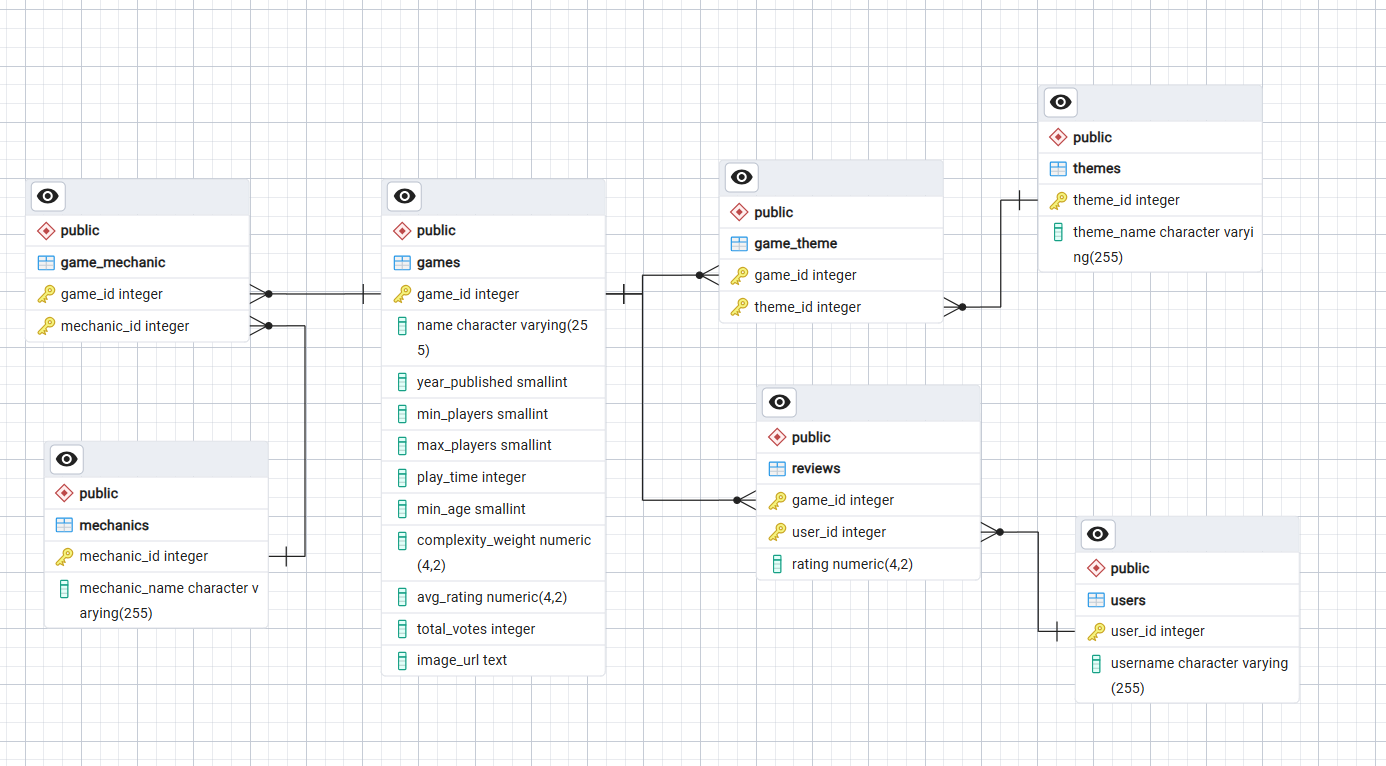
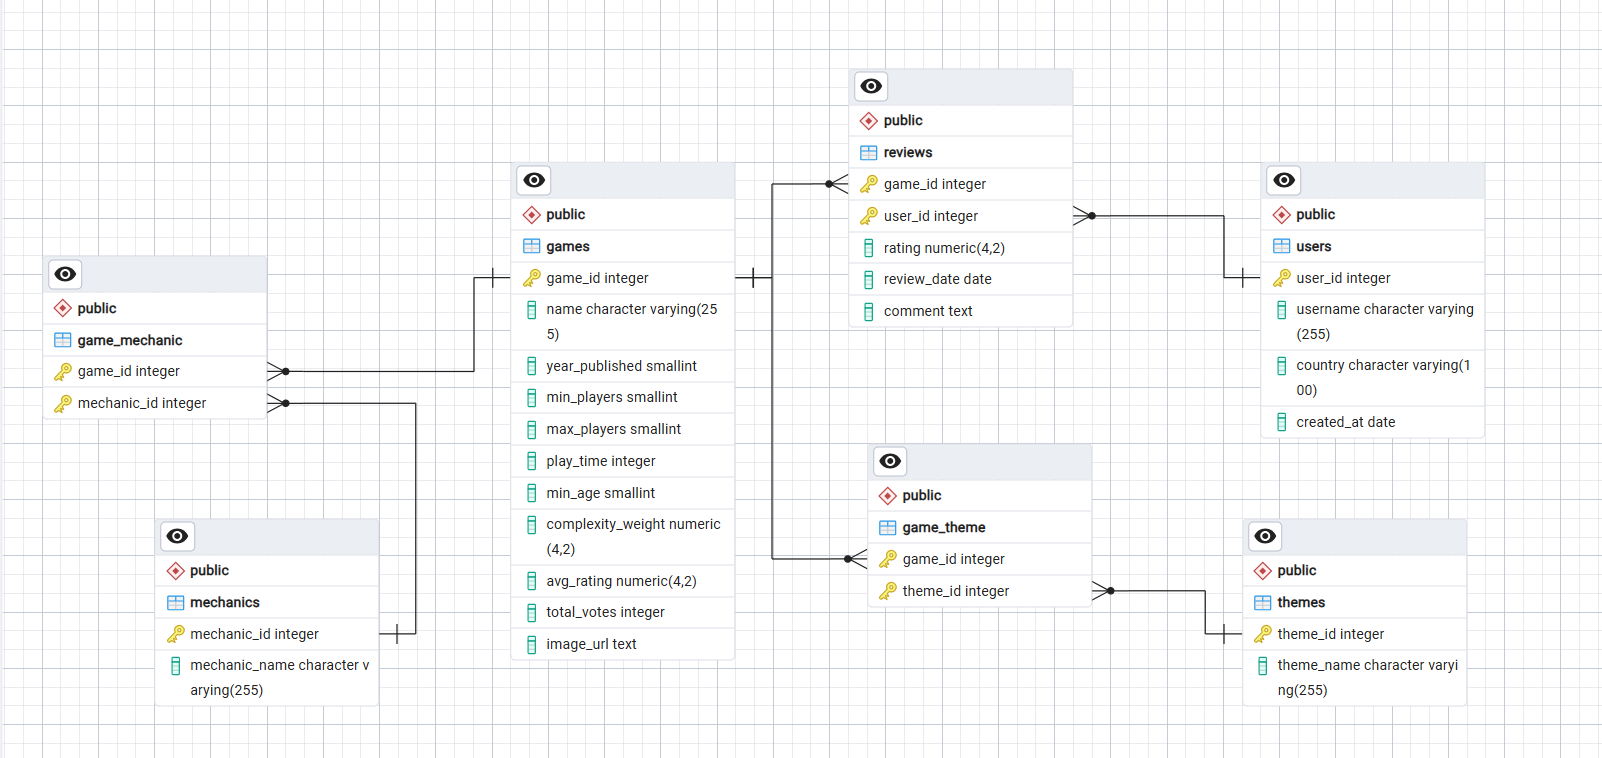
Update data, fix ETL logic, build app

diff --git a/app.py b/app.py
@@ -1,0 +1,205 @@
+import streamlit as st
+import psycopg2
+import pandas as pd
+
+# Default Streamlit page configuration (Single Page Mode)
+st.set_page_config(page_title="Board Game Dashboard", layout="wide")
+
+# Database connection function with caching
+@st.cache_resource
+def init_connection():
+    return psycopg2.connect(
+        host="localhost",
+        database="boardgamedb",
+        user="postgres",
+        password="YOUR_PASSWORD", # <-- ENTER YOUR PGADMIN PASSWORD HERE
+        port="5432"
+    )
+
+conn = init_connection()
+
+# Function to execute SQL and return a Pandas DataFrame
+def run_query(query, params=None):
+    with conn.cursor() as cur:
+        cur.execute(query, params)
+        if cur.description:
+            columns = [desc[0] for desc in cur.description]
+            data = cur.fetchall()
+            return pd.DataFrame(data, columns=columns)
+        else:
+            conn.commit()
+            return pd.DataFrame()
+
+# Helper function to display DataFrame with index starting from 1
+def display_df(df):
+    if not df.empty:
+        df.index = range(1, len(df) + 1)
+        st.dataframe(df, width="stretch") # Using "stretch" to fix the InvalidWidthError
+    else:
+        st.info("No data found.")
+
+# PART 1: OVERVIEW & DEEP ANALYTICS
+st.title("Board game analytics dashboard")
+st.markdown("---")
+st.header("1. Market overview & Analytics")
+
+col1, col2, col3 = st.columns(3)
+
+with col1:
+    st.subheader("Top 10 newest games")
+    query_new_games = """
+        SELECT name AS "Game name", year_published AS "Year"
+        FROM games ORDER BY year_published DESC LIMIT 10;
+    """
+    display_df(run_query(query_new_games))
+
+with col2:
+    st.subheader("Top 10 best rated (>5000 votes)")
+    query_top_rated = """
+        SELECT name AS "Game name", avg_rating AS "Rating"
+        FROM games WHERE total_votes > 5000 ORDER BY avg_rating DESC LIMIT 10;
+    """
+    display_df(run_query(query_top_rated))
+
+with col3:
+    st.subheader("Top 3 games each year (From 2020)")
+    query_window = """
+        WITH RankedGames AS (
+            SELECT name, year_published, avg_rating,
+                   RANK() OVER(PARTITION BY year_published ORDER BY avg_rating DESC) as rank
+            FROM games WHERE year_published >= 2020 AND total_votes > 100
+        )
+        SELECT name AS "Game name", year_published AS "Year", rank AS "Rank" 
+        FROM RankedGames WHERE rank <= 3;
+    """
+    display_df(run_query(query_window))
+
+# PART 2: ADVANCED MULTI-FACTOR FILTER
+st.markdown("---")
+st.header("2. Advanced game filter")
+
+# Fetch Mechanics and Themes for the multiselect dropdowns
+mechs_df = run_query("SELECT mechanic_name FROM mechanics ORDER BY mechanic_name;")
+themes_df = run_query("SELECT theme_name FROM themes ORDER BY theme_name;")
+mech_list = mechs_df['mechanic_name'].tolist() if not mechs_df.empty else []
+theme_list = themes_df['theme_name'].tolist() if not themes_df.empty else []
+
+with st.form("filter_form"):
+    f_col1, f_col2, f_col3 = st.columns(3)
+    with f_col1:
+        year_range = st.slider("Year published:", 1980, 2024, (2010, 2024))
+        min_rating = st.slider("Min avg rating:", 1.0, 10.0, 7.0, 0.1)
+        min_age = st.slider("Max age requirement:", 3, 18, 12)
+    with f_col2:
+        complexity = st.slider("Complexity (Weight):", 1.0, 5.0, (1.0, 5.0), 0.1)
+        min_votes = st.number_input("Min total votes:", min_value=0, value=500, step=100)
+        play_time = st.slider("Max play time (mins):", 10, 300, 120, 10)
+    with f_col3:
+        selected_mechs = st.multiselect("Require mechanics:", mech_list)
+        selected_themes = st.multiselect("Require themes:", theme_list)
+        
+    submitted = st.form_submit_button("Apply filters")
+
+if submitted:
+    base_query = """
+        SELECT g.name AS "Game name", g.year_published AS "Year", 
+               g.min_age AS "Age+", g.play_time AS "Time(m)",
+               g.complexity_weight AS "Complexity", g.avg_rating AS "Rating", g.total_votes AS "Votes"
+        FROM games g
+        WHERE g.year_published >= %s AND g.year_published <= %s
+          AND g.avg_rating >= %s
+          AND g.total_votes >= %s
+          AND g.complexity_weight >= %s AND g.complexity_weight <= %s
+          AND (g.min_age <= %s OR g.min_age IS NULL)
+          AND (g.play_time <= %s OR g.play_time IS NULL)
+    """
+    params = [year_range[0], year_range[1], min_rating, min_votes, complexity[0], complexity[1], min_age, play_time]
+
+    if selected_mechs:
+        base_query += " AND g.game_id IN (SELECT gm.game_id FROM game_mechanic gm JOIN mechanics m ON gm.mechanic_id = m.mechanic_id WHERE m.mechanic_name = ANY(%s))"
+        params.append(selected_mechs)
+    
+    if selected_themes:
+        base_query += " AND g.game_id IN (SELECT gt.game_id FROM game_theme gt JOIN themes t ON gt.theme_id = t.theme_id WHERE t.theme_name = ANY(%s))"
+        params.append(selected_themes)
+
+    base_query += " ORDER BY g.avg_rating DESC LIMIT 1000;"
+    
+    filtered_df = run_query(base_query, params)
+    st.success(f"Found {len(filtered_df)} games matching criteria.")
+    display_df(filtered_df)
+
+# PART 3: INTERACTIVE ENCYCLOPEDIA (Drill-down)
+st.markdown("---")
+st.header("3. Search encyclopedia (Game & User details)")
+st.info("Copy a game name or Username from the tables above and paste below to view full details and cross-references.")
+
+s_col1, s_col2 = st.columns(2)
+
+# ----- GAME DETAILS SECTION -----
+with s_col1:
+    search_game = st.text_input("Search game details:", placeholder="Enter game name...")
+    if search_game:
+        query_game = "SELECT * FROM games WHERE name ILIKE %s ORDER BY total_votes DESC LIMIT 1;"
+        game_info = run_query(query_game, (f"%{search_game}%",))
+        
+        if not game_info.empty:
+            game = game_info.iloc[0]
+            st.subheader(f"{game['name']}")
+
+            if pd.notna(game.get('image_url')):
+                try:
+                    st.image(game['image_url'], width=350)
+                except:
+                    pass
+            st.markdown("---")
+            
+            # Show Metrics
+            m1, m2, m3 = st.columns(3)
+            m1.metric("Rating", f"{game['avg_rating']}/10")
+            m2.metric("Complexity", f"{game['complexity_weight']}/5")
+            m3.metric("Published", int(game['year_published']) if pd.notna(game['year_published']) else "N/A")
+            
+            # Show User Reviews for this Game
+            st.markdown(f"**Recent User reviews for {game['name']}**")
+            query_game_reviews = """
+                SELECT u.username AS "Username", r.rating AS "Rating", r.comment AS "Comment", r.review_date AS "Date"
+                FROM reviews r
+                JOIN users u ON r.user_id = u.user_id
+                WHERE r.game_id = %s
+                ORDER BY r.review_date DESC LIMIT 20;
+            """
+            game_reviews_df = run_query(query_game_reviews, (int(game['game_id']),))
+            display_df(game_reviews_df)
+        else:
+            st.warning("Game not found.")
+
+# ----- USER DETAILS SECTION -----
+with s_col2:
+    search_user = st.text_input("Search User profile:", placeholder="Enter Username...")
+    if search_user:
+        query_user = "SELECT * FROM users WHERE username ILIKE %s LIMIT 1;"
+        user_info = run_query(query_user, (search_user,))
+        
+        if not user_info.empty:
+            user = user_info.iloc[0]
+            st.subheader(f"{user['username']}")
+            
+            # Show User Info
+            u1, u2 = st.columns(2)
+            u1.metric("Country", user['country'] if pd.notna(user['country']) else "Unknown")
+            u2.metric("Joined date", str(user['created_at']))
+            
+            # Show Game Reviews by this User
+            st.markdown(f"**Games reviewed by {user['username']}**")
+            query_user_history = """
+                SELECT g.name AS "Game name", r.rating AS "Rating", r.comment AS "Comment", r.review_date AS "Date"
+                FROM reviews r
+                JOIN games g ON r.game_id = g.game_id
+                WHERE r.user_id = %s
+                ORDER BY r.review_date DESC;
+            """
+            user_history_df = run_query(query_user_history, (int(user['user_id']),))
+            display_df(user_history_df)
+        else:
+            st.warning("User not found.")

diff --git a/preprocessing.py b/preprocessing.py
@@ -1,13 +1,22 @@
 import pandas as pd
+import numpy as np
+import os
+
+np.random.seed(42)
 
 # Define input and output directory paths
 ORIGIN_DIR = "./origin_data/"
 NEW_DIR = "./new_data/"
 
+# Automatically create the output directory if it does not exist
+if not os.path.exists(NEW_DIR):
+    os.makedirs(NEW_DIR)
+
 # 1. PROCESS GAMES TABLE
+print("Processing games table...")
 df_games = pd.read_csv(ORIGIN_DIR + "games.csv")
 
-# Select core columns and rename them
+# Select core columns and rename them to match the SQL schema
 df_games_cleaned = df_games[['BGGId', 'Name', 'YearPublished', 'MinPlayers', 'MaxPlayers', 'MfgPlaytime', 'MfgAgeRec', 'GameWeight', 'AvgRating', 'NumUserRatings', 'ImagePath']]
 df_games_cleaned = df_games_cleaned.rename(columns={
     'BGGId': 'game_id',
@@ -23,10 +32,19 @@ df_games_cleaned = df_games_cleaned.rename(columns={
     'ImagePath': 'image_url'
 })
 
+
+# Data Cleaning: Fix logical errors and handle missing values to match SQL constraints
+df_games_cleaned.loc[df_games_cleaned['min_players'] < 1, 'min_players'] = 1
+df_games_cleaned.loc[df_games_cleaned['max_players'] < df_games_cleaned['min_players'], 'max_players'] = df_games_cleaned['min_players']
+
+df_games_cleaned.loc[df_games_cleaned['play_time'] == 0, 'play_time'] = None
+df_games_cleaned.loc[df_games_cleaned['min_age'] == 0, 'min_age'] = None
+
 df_games_cleaned.to_csv(NEW_DIR + "games_cleaned.csv", index=False)
 print("Processed: games_cleaned.csv")
 
 # 2. PROCESS MECHANICS & GAME_MECHANIC TABLES
+print("Processing mechanics table...")
 df_mech = pd.read_csv(ORIGIN_DIR + "mechanics.csv")
 mechanic_names = df_mech.columns[1:]
 
@@ -48,6 +66,7 @@ df_game_mechanic.to_csv(NEW_DIR + "game_mechanic.csv", index=False)
 print("Processed: game_mechanic.csv")
 
 # 3. PROCESS THEMES & GAME_THEME TABLES
+print("Processing themes table...")
 df_themes = pd.read_csv(ORIGIN_DIR + "themes.csv")
 theme_names = df_themes.columns[1:]
 
@@ -68,30 +87,58 @@ df_game_theme = df_themes_merge[['BGGId', 'theme_id']].rename(columns={'BGGId': 
 df_game_theme.to_csv(NEW_DIR + "game_theme.csv", index=False)
 print("Processed: game_theme.csv")
 
-# 4. PROCESS USERS & REVIEWS TABLES
+# 4. PROCESS USERS & REVIEWS TABLES 
+# (Data optimization & new attribute generation)
+print("Reading user_ratings.csv (This may take a few moments)...")
 df_ratings = pd.read_csv(ORIGIN_DIR + "user_ratings.csv")
 
-# Extract unique users from the 'Username' column to create the users table
+# Stratified Sampling: Shuffle data and limit to a maximum of 30 reviews per game
+print("Applying stratified sampling to optimize performance...")
+df_ratings = df_ratings.sample(frac=1, random_state=42)
+df_ratings = df_ratings.groupby('BGGId').head(30).reset_index(drop=True)
+
+# 4A. CREATE USERS TABLE
+print("Processing users table...")
 unique_users = df_ratings['Username'].dropna().unique()
 df_users_cleaned = pd.DataFrame({
     'user_id': range(1, len(unique_users) + 1),
     'username': unique_users
 })
+
+# Generate mock data for the users table
+countries = ['Vietnam', 'USA', 'UK', 'Germany', 'France', 'Japan', 'Canada', 'Australia', 'Brazil', 'Korea']
+df_users_cleaned['country'] = np.random.choice(countries, len(df_users_cleaned))
+df_users_cleaned['created_at'] = pd.to_datetime('2018-01-01') + pd.to_timedelta(np.random.randint(0, 1800, len(df_users_cleaned)), unit='D')
+df_users_cleaned['created_at'] = df_users_cleaned['created_at'].dt.date
+
 df_users_cleaned.to_csv(NEW_DIR + "users_cleaned.csv", index=False)
 print("Processed: users_cleaned.csv")
 
+# 4B. CREATE REVIEWS TABLE
+print("Processing reviews table...")
 df_reviews = df_ratings.merge(df_users_cleaned, left_on='Username', right_on='username', how='left')
 
-# Keep only necessary columns: BGGId, user_id, Rating 
-df_reviews_final = df_reviews[['BGGId', 'user_id', 'Rating']]
+# Rename columns to match the SQL schema
+df_reviews_final = df_reviews[['BGGId', 'user_id', 'Rating']].copy()
 df_reviews_final = df_reviews_final.rename(columns={
     'BGGId': 'game_id',
     'Rating': 'rating'
 })
 
+# Clean data: Remove nulls and duplicates to prevent SQL constraint violations
 df_reviews_final = df_reviews_final.dropna(subset=['user_id'])
 df_reviews_final['user_id'] = df_reviews_final['user_id'].astype(int)
 df_reviews_final = df_reviews_final.drop_duplicates(subset=['game_id', 'user_id'], keep='last')
 
-df_reviews_final.to_csv(NEW_DIR + "reviews.csv", index=False)
-print("Processed: reviews.csv")
+# Generate mock data for the reviews table
+df_reviews_final['review_date'] = pd.to_datetime('2023-01-01') + pd.to_timedelta(np.random.randint(0, 1000, len(df_reviews_final)), unit='D')
+df_reviews_final['review_date'] = df_reviews_final['review_date'].dt.date
+    
+comments = ['Great game!', 'Boring gameplay.', 'Highly recommended', 'Rules are too complex', 'Love the mechanics', 'Not my type', None, None, None, None]
+df_reviews_final['comment'] = np.random.choice(comments, len(df_reviews_final))
+
+# Export the final cleaned reviews table
+df_reviews_final.to_csv(NEW_DIR + "reviews_cleaned.csv", index=False)
+print("Processed: reviews_cleaned.csv")
+
+print("\nETL data preprocessing completed successfully!")

diff --git a/02_import_data.py b/02_import_data.py
@@ -1,0 +1,62 @@
+import psycopg2
+import os
+
+def auto_import_data():
+    try:
+        # 1. Establish database connection
+        # (Replace 'YOUR_PASSWORD' with your actual pgAdmin password)
+        connection = psycopg2.connect(
+            host="localhost",
+            database="boardgamedb",
+            user="postgres",
+            password="YOUR_PASSWORD", 
+            port="5432"
+        )
+        cursor = connection.cursor()
+        
+        # 2. Define the list of tables and their corresponding CSV files
+        # Order matters: Independent tables first, junction/dependent tables last to avoid Foreign Key violations
+        tables_and_files = [
+            ('games', './new_data/games_cleaned.csv'),
+            ('mechanics', './new_data/mechanics_cleaned.csv'),
+            ('themes', './new_data/themes_cleaned.csv'),
+            ('users', './new_data/users_cleaned.csv'),
+            ('game_mechanic', './new_data/game_mechanic.csv'),
+            ('game_theme', './new_data/game_theme.csv'),
+            ('reviews', './new_data/reviews_cleaned.csv')
+        ]
+
+        print("Starting automated data import process...")
+        
+        # 3. Iterate through the list and import data into PostgreSQL
+        for table_name, file_path in tables_and_files:
+            if not os.path.exists(file_path):
+                print(f"Warning: Skipping {table_name}. File not found at {file_path}")
+                continue
+                
+            print(f"Importing data into table: {table_name}...")
+            
+            # Open the CSV file and use copy_expert for high-speed bulk loading
+            with open(file_path, 'r', encoding='utf-8') as f:
+                sql_copy = f"COPY {table_name} FROM STDIN WITH CSV HEADER DELIMITER ','"
+                cursor.copy_expert(sql_copy, f)
+                
+        # 4. Commit all transactions to the database
+        connection.commit()
+        print("\nSuccess! All data has been imported into the database.")
+
+    except (Exception, psycopg2.Error) as error:
+        print("\nImport failed due to an error:", error)
+        # Rollback any changes if an error occurs during the process
+        if connection:
+            connection.rollback()
+
+    finally:
+        # 5. Safely close the database connection
+        if connection:
+            cursor.close()
+            connection.close()
+            print("Database connection closed.")
+
+if __name__ == "__main__":
+    auto_import_data()

diff --git a/tempCodeRunnerFile.py b/tempCodeRunnerFile.py
@@ -1,0 +1,1 @@
+df_games_cleaned.loc[df_games_cleaned['max_players'] < df_games_cleaned['min_p
